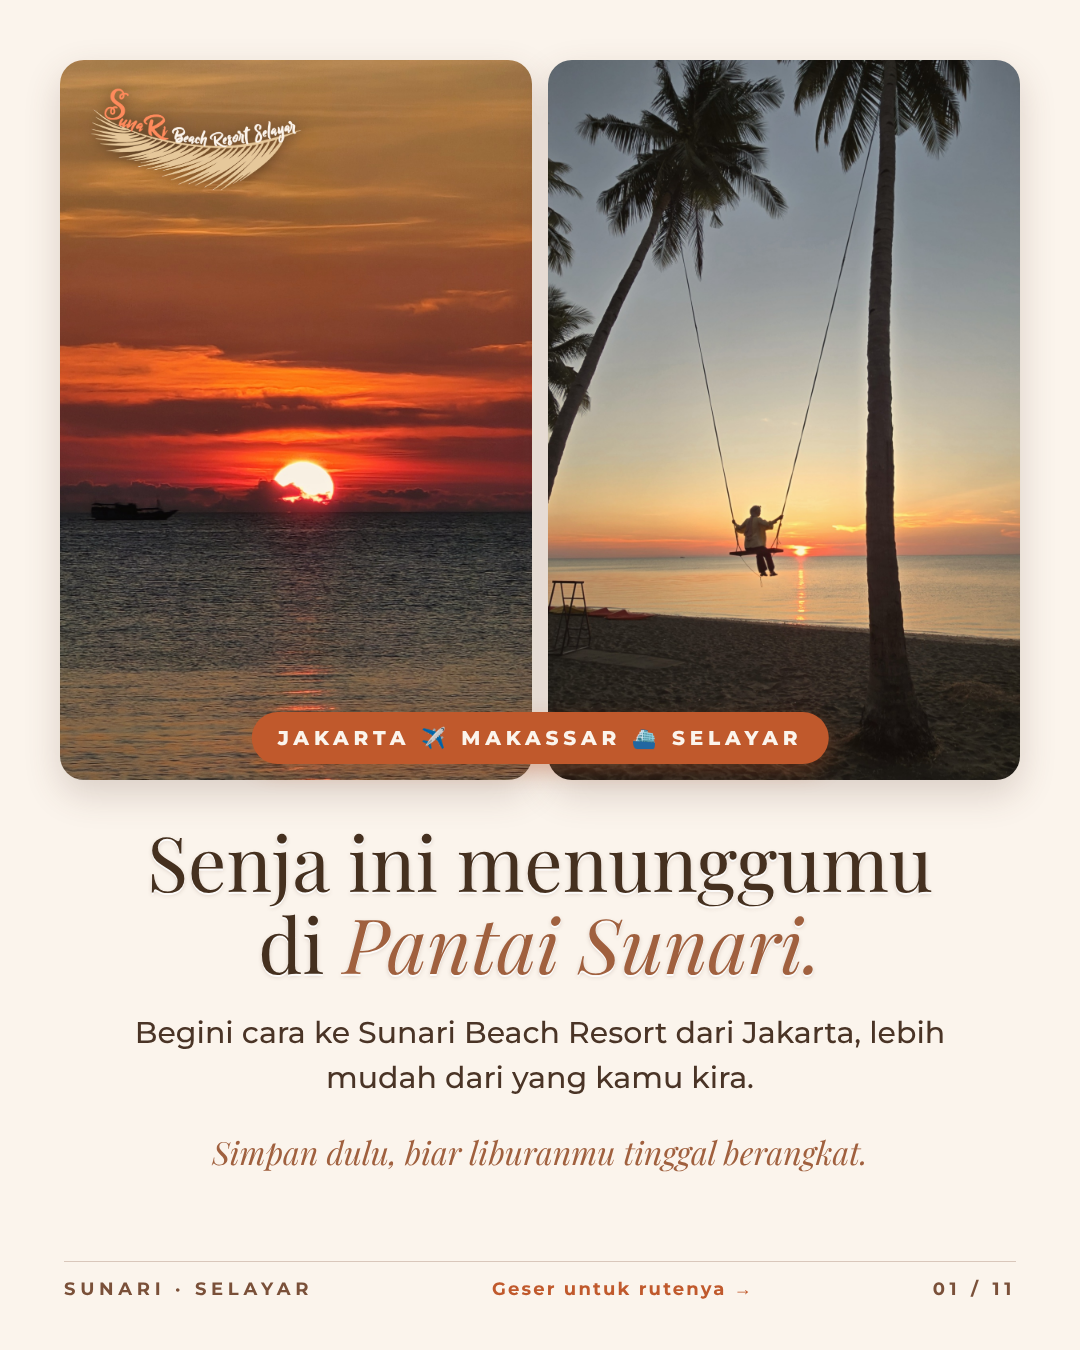
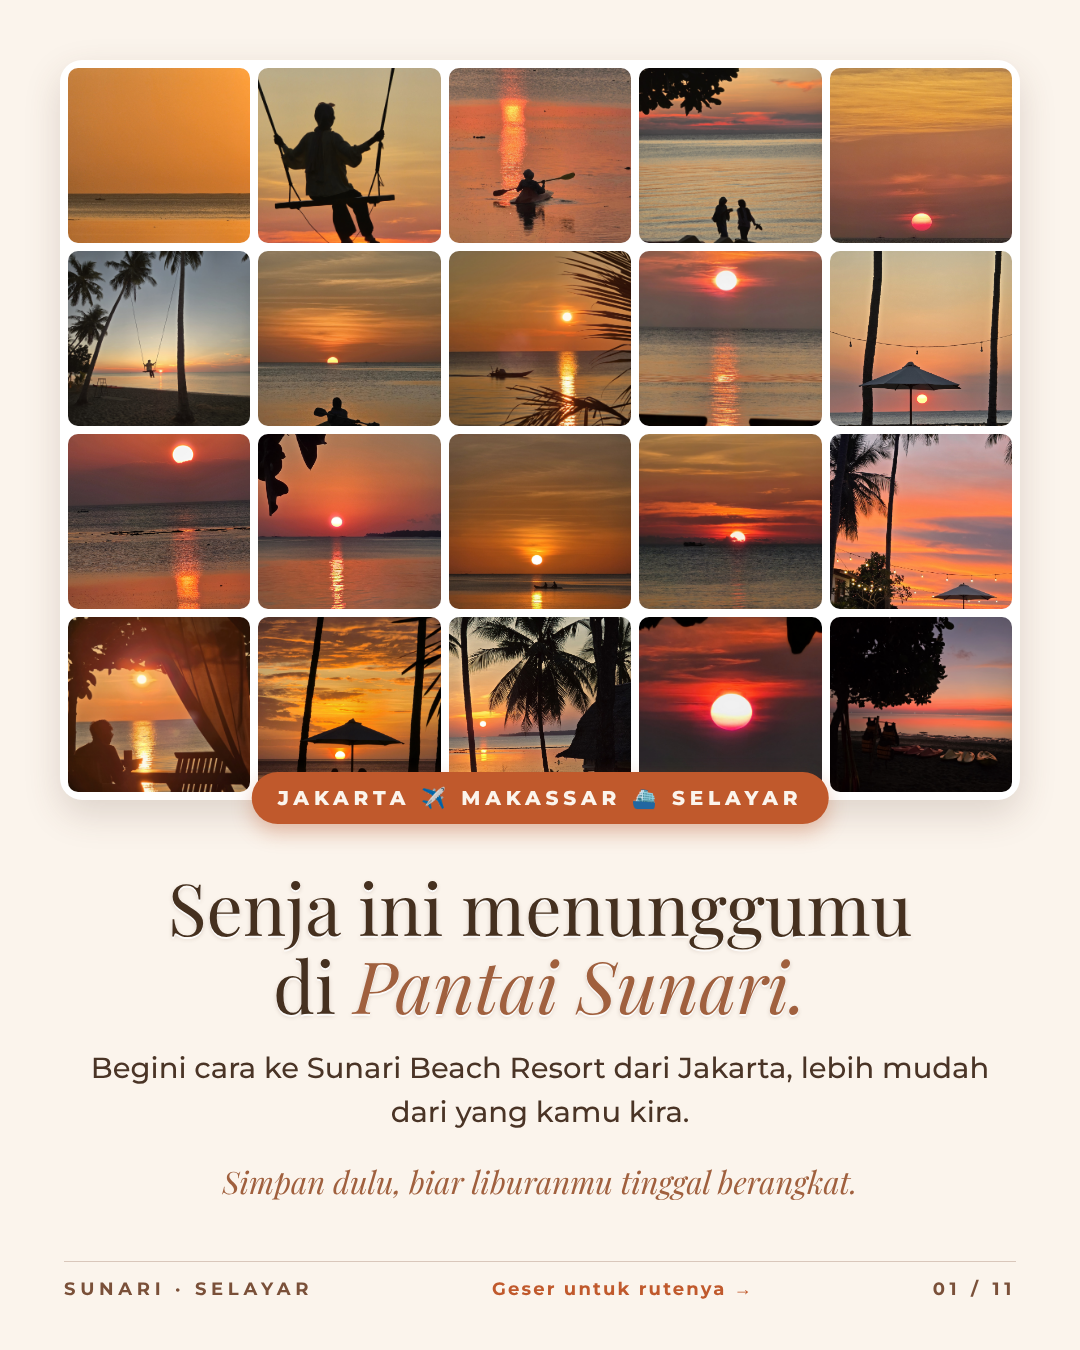
Rute Jakarta slide 01: 20 best sunset photos in one grid frame
Claude-Session: https://claude.ai/code/session_01AizaiBQtsTmWERPRfEgVV4

diff --git a/social/rute_jakarta.html b/social/rute_jakarta.html
@@ -21,14 +21,11 @@
 .list div{padding:30px 0 30px 60px;border-bottom:1.5px solid rgba(138,95,72,.3);font-size:34px;line-height:1.4;position:relative}
 .list div i{position:absolute;left:0;top:28px;font-style:normal;font-size:32px}
 </style></head><body><div class="t" id="rute-01">
-  <div style="position:absolute;left:60px;right:60px;top:60px;height:720px;display:flex;gap:16px">
-    <div style="flex:1;border-radius:24px;overflow:hidden;box-shadow:0 14px 36px rgba(90,62,49,.2)"><img src="../assets/photos/graded/senja__74-matahari-menyentuh-laut-kapal.jpg" style="width:100%;height:100%;object-fit:cover;object-position:58% 50%" alt=""></div>
-    <div style="flex:1;border-radius:24px;overflow:hidden;box-shadow:0 14px 36px rgba(90,62,49,.2)"><img src="../assets/photos/graded/senja__72-ayunan-di-antara-kelapa.jpg" style="width:100%;height:100%;object-fit:cover;object-position:46% 55%" alt=""></div></div>
-  <img src="../assets/logo-sunari-color-dark.png" style="position:absolute;left:86px;top:84px;width:220px;filter:drop-shadow(0 2px 8px rgba(0,0,0,.5))" alt="">
-  <div style="position:absolute;left:50%;top:712px;transform:translateX(-50%);background:#C0592C;color:#FBF4EC;font-weight:800;font-size:20px;letter-spacing:.24em;text-transform:uppercase;padding:14px 26px;border-radius:999px;white-space:nowrap;box-shadow:0 8px 20px rgba(192,89,44,.35)">Jakarta ✈ Makassar ⛴ Selayar</div>
-  <div class="emb" style="position:absolute;left:64px;right:64px;top:820px;font-family:'Playfair Display',serif;font-size:76px;line-height:1.08;text-align:center;color:#45301F">Senja ini menunggumu<br>di <em style="color:#A0603E">Pantai Sunari.</em></div>
-  <div style="position:absolute;left:90px;right:90px;top:1010px;font-size:30px;line-height:1.5;text-align:center;color:#4A3426">Begini cara ke Sunari Beach Resort dari Jakarta, lebih mudah dari yang kamu kira.</div>
-  <div style="position:absolute;left:0;right:0;top:1130px;text-align:center;font-family:'Playfair Display',serif;font-style:italic;font-size:32px;color:#A0603E">Simpan dulu, biar liburanmu tinggal berangkat.</div>
+  <div style="position:absolute;left:60px;right:60px;top:60px;height:740px;display:grid;grid-template-columns:repeat(5,1fr);grid-template-rows:repeat(4,1fr);gap:8px;padding:8px;background:#fff;border-radius:22px;box-shadow:0 14px 36px rgba(90,62,49,.18)"><img src="../assets/photos/senja/44-dua-kayak-emas-1743.jpg" style="width:100%;height:100%;object-fit:cover;object-position:99% 0%;border-radius:10px;display:block;min-width:0;min-height:0" alt=""><img src="../assets/photos/graded/senja__77-ayunan-siluet-dekat.jpg" style="width:100%;height:100%;object-fit:cover;object-position:64% 2%;border-radius:10px;display:block;min-width:0;min-height:0" alt=""><img src="../assets/photos/senja/10-kayak-pantulan.jpg" style="width:100%;height:100%;object-fit:cover;object-position:34% 24%;border-radius:10px;display:block;min-width:0;min-height:0" alt=""><img src="../assets/photos/graded/senja__75-afterglow-dua-sahabat.jpg" style="width:100%;height:100%;object-fit:cover;object-position:62% 0%;border-radius:10px;display:block;min-width:0;min-height:0" alt=""><img src="../assets/photos/senja/35-matahari-cakrawala-1751.jpg" style="width:100%;height:100%;object-fit:cover;object-position:41% 12%;border-radius:10px;display:block;min-width:0;min-height:0" alt=""><img src="../assets/photos/graded/senja__72-ayunan-di-antara-kelapa.jpg" style="width:100%;height:100%;object-fit:cover;object-position:52% 58%;border-radius:10px;display:block;min-width:0;min-height:0" alt=""><img src="../assets/photos/senja/65-kayak-single-matahari-terbenam-1753.jpg" style="width:100%;height:100%;object-fit:cover;object-position:40% 41%;border-radius:10px;display:block;min-width:0;min-height:0" alt=""><img src="../assets/photos/graded/senja__70-perahu-nelayan-daun-kelapa.jpg" style="width:100%;height:100%;object-fit:cover;object-position:65% 74%;border-radius:10px;display:block;min-width:0;min-height:0" alt=""><img src="../assets/photos/senja/29-dua-kursi-menghadap-senja.jpg" style="width:100%;height:100%;object-fit:cover;object-position:47% 16%;border-radius:10px;display:block;min-width:0;min-height:0" alt=""><img src="../assets/photos/senja/47-payung-di-antara-kelapa-1755.jpg" style="width:100%;height:100%;object-fit:cover;object-position:58% 11%;border-radius:10px;display:block;min-width:0;min-height:0" alt=""><img src="../assets/photos/senja/45-dua-kayak-matahari-1751.jpg" style="width:100%;height:100%;object-fit:cover;object-position:62% 9%;border-radius:10px;display:block;min-width:0;min-height:0" alt=""><img src="../assets/photos/senja/51-kayak-double-jalur-cahaya-1751.jpg" style="width:100%;height:100%;object-fit:cover;object-position:42% 25%;border-radius:10px;display:block;min-width:0;min-height:0" alt=""><img src="../assets/photos/senja/64-kayak-double-bawah-matahari-1750.jpg" style="width:100%;height:100%;object-fit:cover;object-position:47% 63%;border-radius:10px;display:block;min-width:0;min-height:0" alt=""><img src="../assets/photos/graded/senja__74-matahari-menyentuh-laut-kapal.jpg" style="width:100%;height:100%;object-fit:cover;object-position:54% 57%;border-radius:10px;display:block;min-width:0;min-height:0" alt=""><img src="../assets/photos/senja/53-afterglow-lampu-gantung-1807.jpg" style="width:100%;height:100%;object-fit:cover;object-position:72% 6%;border-radius:10px;display:block;min-width:0;min-height:0" alt=""><img src="../assets/photos/graded/senja__71-siluet-tirai-matahari.jpg" style="width:100%;height:100%;object-fit:cover;object-position:40% 36%;border-radius:10px;display:block;min-width:0;min-height:0" alt=""><img src="../assets/photos/senja/60-berdua-bawah-payung-kelapa-1753.jpg" style="width:100%;height:100%;object-fit:cover;object-position:70% 44%;border-radius:10px;display:block;min-width:0;min-height:0" alt=""><img src="../assets/photos/senja/52-pohon-kelapa-bungalow-1747.jpg" style="width:100%;height:100%;object-fit:cover;object-position:0% 38%;border-radius:10px;display:block;min-width:0;min-height:0" alt=""><img src="../assets/photos/senja/28-matahari-di-bawah-daun.jpg" style="width:100%;height:100%;object-fit:cover;object-position:50% 52%;border-radius:10px;display:block;min-width:0;min-height:0" alt=""><img src="../assets/photos/senja/37-afterglow-kayak-pelampung-1814.jpg" style="width:100%;height:100%;object-fit:cover;object-position:73% 39%;border-radius:10px;display:block;min-width:0;min-height:0" alt=""></div>
+  <div style="position:absolute;left:50%;top:772px;transform:translateX(-50%);background:#C0592C;color:#FBF4EC;font-weight:800;font-size:20px;letter-spacing:.24em;text-transform:uppercase;padding:14px 26px;border-radius:999px;white-space:nowrap;box-shadow:0 8px 20px rgba(192,89,44,.35)">Jakarta ✈ Makassar ⛴ Selayar</div>
+  <div class="emb" style="position:absolute;left:64px;right:64px;top:868px;font-family:'Playfair Display',serif;font-size:72px;line-height:1.08;text-align:center;color:#45301F">Senja ini menunggumu<br>di <em style="color:#A0603E">Pantai Sunari.</em></div>
+  <div style="position:absolute;left:90px;right:90px;top:1046px;font-size:29px;line-height:1.5;text-align:center;color:#4A3426">Begini cara ke Sunari Beach Resort dari Jakarta, lebih mudah dari yang kamu kira.</div>
+  <div style="position:absolute;left:0;right:0;top:1160px;text-align:center;font-family:'Playfair Display',serif;font-style:italic;font-size:31px;color:#A0603E">Simpan dulu, biar liburanmu tinggal berangkat.</div>
   <div class="bt"><span>SunaRi · Selayar</span><span class="h">Geser untuk rutenya →</span><span>01 / 11</span></div></div><div class="t" id="rute-02">
   <div style="position:absolute;left:64px;top:70px;font-weight:800;font-size:21px;letter-spacing:.3em;text-transform:uppercase;color:#C0592C">Ada 3 cara, pilih yang cocok</div>
   <div class="emb" style="position:absolute;left:64px;right:64px;top:110px;font-family:'Playfair Display',serif;font-size:70px;line-height:1.08;white-space:nowrap">Jakarta → Makassar → <em style="color:#A0603E">Selayar</em></div>

diff --git a/social/build_rute_jakarta.py b/social/build_rute_jakarta.py
@@ -35,16 +35,31 @@ def card(k, img, pos, step, kick, ttl, body):
 big = lambda n, t: f'<div class="big"><b>{n}</b><span>{t}</span></div>'
 sub = lambda t: f'<div class="sub">{t}</div>'
 T = []
-# 1 · hook: 2 foto senja terbaik dalam 1 frame + kalimat soft selling
+# 1 · hook: 20 foto senja terbaik dalam 1 frame (grid 5×4, terang → gelap) + kalimat soft selling
+import numpy as _np
+from PIL import Image as _Im
+_G = ["74-matahari-menyentuh-laut-kapal", "72-ayunan-di-antara-kelapa", "70-perahu-nelayan-daun-kelapa", "71-siluet-tirai-matahari", "77-ayunan-siluet-dekat", "75-afterglow-dua-sahabat"]
+_O = ["45-dua-kayak-matahari-1751", "35-matahari-cakrawala-1751", "64-kayak-double-bawah-matahari-1750", "65-kayak-single-matahari-terbenam-1753",
+      "44-dua-kayak-emas-1743", "51-kayak-double-jalur-cahaya-1751", "52-pohon-kelapa-bungalow-1747", "29-dua-kursi-menghadap-senja",
+      "28-matahari-di-bawah-daun", "47-payung-di-antara-kelapa-1755", "53-afterglow-lampu-gantung-1807", "60-berdua-bawah-payung-kelapa-1753",
+      "10-kayak-pantulan", "37-afterglow-kayak-pelampung-1814"]
+_R = H.parent / "assets/photos"
+_tiles = []
+for f in [("graded/senja__" + x + ".jpg") for x in _G] + [("senja/" + x + ".jpg") for x in _O]:
+    _im = _Im.open(_R / f).convert("RGB"); _im.thumbnail((160, 160)); _a = _np.asarray(_im.convert("L"), float)
+    _b = _np.asarray(_im.filter(__import__("PIL.ImageFilter", fromlist=["x"]).GaussianBlur(5)).convert("L"), float)
+    _y, _x = _np.unravel_index(_b.argmax(), _b.shape)
+    _tiles.append((_a.mean(), f, f"{round(100*_x/_b.shape[1])}% {round(100*_y/_b.shape[0])}%"))
+_tiles = [(m, f, '50% 58%' if '57-matahari' in f else pos) for m, f, pos in _tiles]
+_tiles.sort(key=lambda z: -z[0])
+assert len(_tiles) == 20
+_grid = "".join(f'<img src="../assets/photos/{f}" style="width:100%;height:100%;object-fit:cover;object-position:{pos};border-radius:10px;display:block;min-width:0;min-height:0" alt="">' for _, f, pos in _tiles)
 T.append(f'''<div class="t" id="rute-01">
-  <div style="position:absolute;left:60px;right:60px;top:60px;height:720px;display:flex;gap:16px">
-    <div style="flex:1;border-radius:24px;overflow:hidden;box-shadow:0 14px 36px rgba(90,62,49,.2)"><img src="../assets/photos/graded/senja__74-matahari-menyentuh-laut-kapal.jpg" style="width:100%;height:100%;object-fit:cover;object-position:58% 50%" alt=""></div>
-    <div style="flex:1;border-radius:24px;overflow:hidden;box-shadow:0 14px 36px rgba(90,62,49,.2)"><img src="../assets/photos/graded/senja__72-ayunan-di-antara-kelapa.jpg" style="width:100%;height:100%;object-fit:cover;object-position:46% 55%" alt=""></div></div>
-  <img src="{LOGO_D}" style="position:absolute;left:86px;top:84px;width:220px;filter:drop-shadow(0 2px 8px rgba(0,0,0,.5))" alt="">
-  <div style="position:absolute;left:50%;top:712px;transform:translateX(-50%);background:#C0592C;color:#FBF4EC;font-weight:800;font-size:20px;letter-spacing:.24em;text-transform:uppercase;padding:14px 26px;border-radius:999px;white-space:nowrap;box-shadow:0 8px 20px rgba(192,89,44,.35)">Jakarta ✈ Makassar ⛴ Selayar</div>
-  <div class="emb" style="position:absolute;left:64px;right:64px;top:820px;font-family:'Playfair Display',serif;font-size:76px;line-height:1.08;text-align:center;color:#45301F">Senja ini menunggumu<br>di <em style="color:#A0603E">Pantai Sunari.</em></div>
-  <div style="position:absolute;left:90px;right:90px;top:1010px;font-size:30px;line-height:1.5;text-align:center;color:#4A3426">Begini cara ke Sunari Beach Resort dari Jakarta, lebih mudah dari yang kamu kira.</div>
-  <div style="position:absolute;left:0;right:0;top:1130px;text-align:center;font-family:'Playfair Display',serif;font-style:italic;font-size:32px;color:#A0603E">Simpan dulu, biar liburanmu tinggal berangkat.</div>
+  <div style="position:absolute;left:60px;right:60px;top:60px;height:740px;display:grid;grid-template-columns:repeat(5,1fr);grid-template-rows:repeat(4,1fr);gap:8px;padding:8px;background:#fff;border-radius:22px;box-shadow:0 14px 36px rgba(90,62,49,.18)">{_grid}</div>
+  <div style="position:absolute;left:50%;top:772px;transform:translateX(-50%);background:#C0592C;color:#FBF4EC;font-weight:800;font-size:20px;letter-spacing:.24em;text-transform:uppercase;padding:14px 26px;border-radius:999px;white-space:nowrap;box-shadow:0 8px 20px rgba(192,89,44,.35)">Jakarta ✈ Makassar ⛴ Selayar</div>
+  <div class="emb" style="position:absolute;left:64px;right:64px;top:868px;font-family:'Playfair Display',serif;font-size:72px;line-height:1.08;text-align:center;color:#45301F">Senja ini menunggumu<br>di <em style="color:#A0603E">Pantai Sunari.</em></div>
+  <div style="position:absolute;left:90px;right:90px;top:1046px;font-size:29px;line-height:1.5;text-align:center;color:#4A3426">Begini cara ke Sunari Beach Resort dari Jakarta, lebih mudah dari yang kamu kira.</div>
+  <div style="position:absolute;left:0;right:0;top:1160px;text-align:center;font-family:'Playfair Display',serif;font-style:italic;font-size:31px;color:#A0603E">Simpan dulu, biar liburanmu tinggal berangkat.</div>
   <div class="bt"><span>SunaRi · Selayar</span><span class="h">Geser untuk rutenya →</span><span>01 / {N:02d}</span></div></div>''')
 # ---- struktur: Opsi A (udara) & Opsi B (darat + feri), tiap langkah format sama
 A_COL, B_COL, C_COL, ALL_COL = "#C0592C", "#7A5039", "#2F6E7E", "#45301F"
